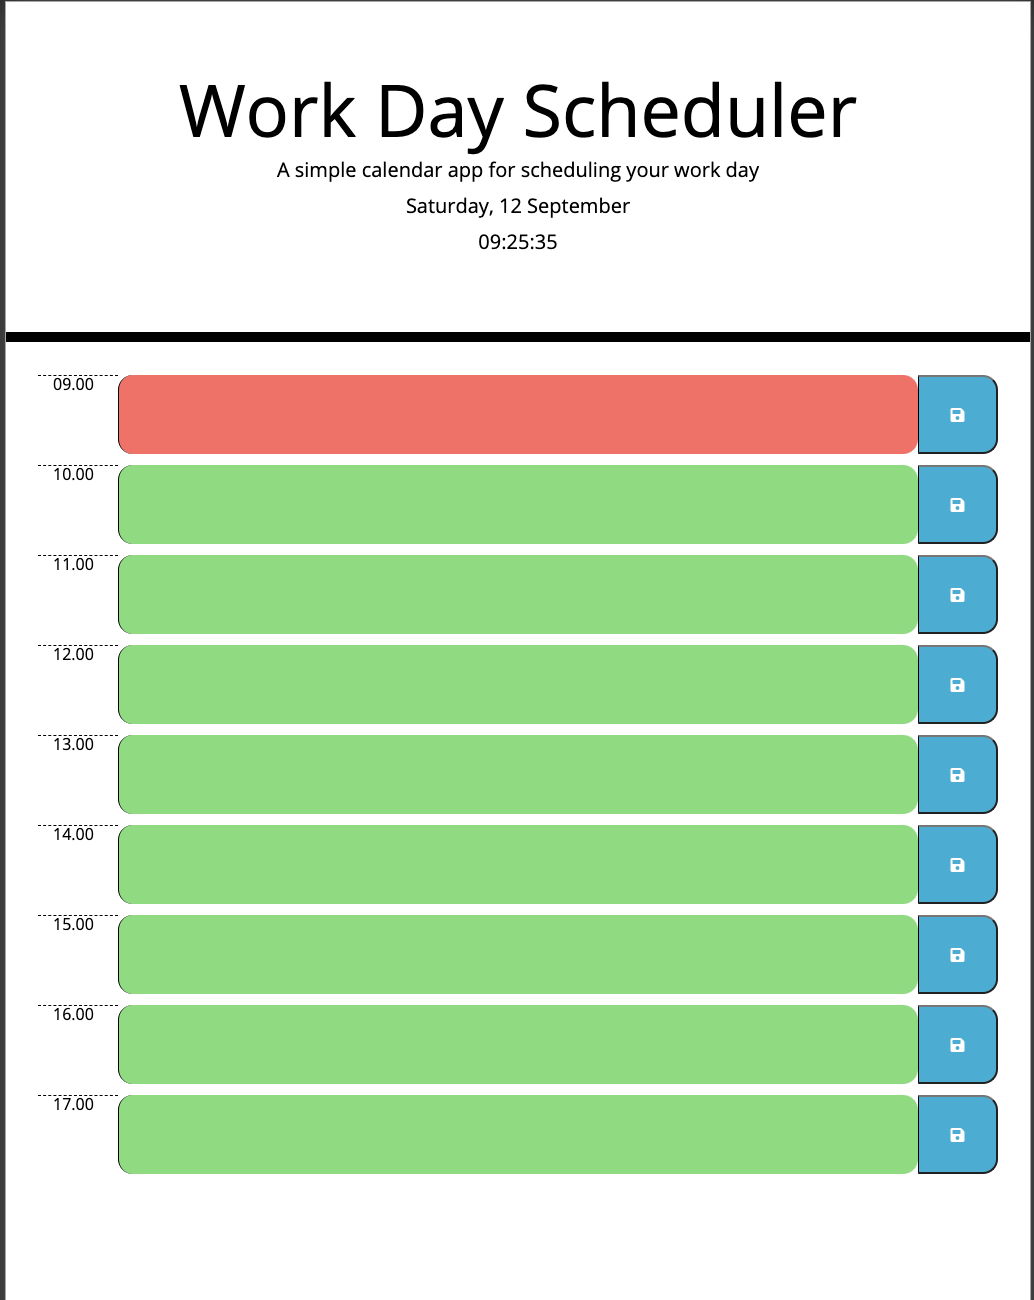
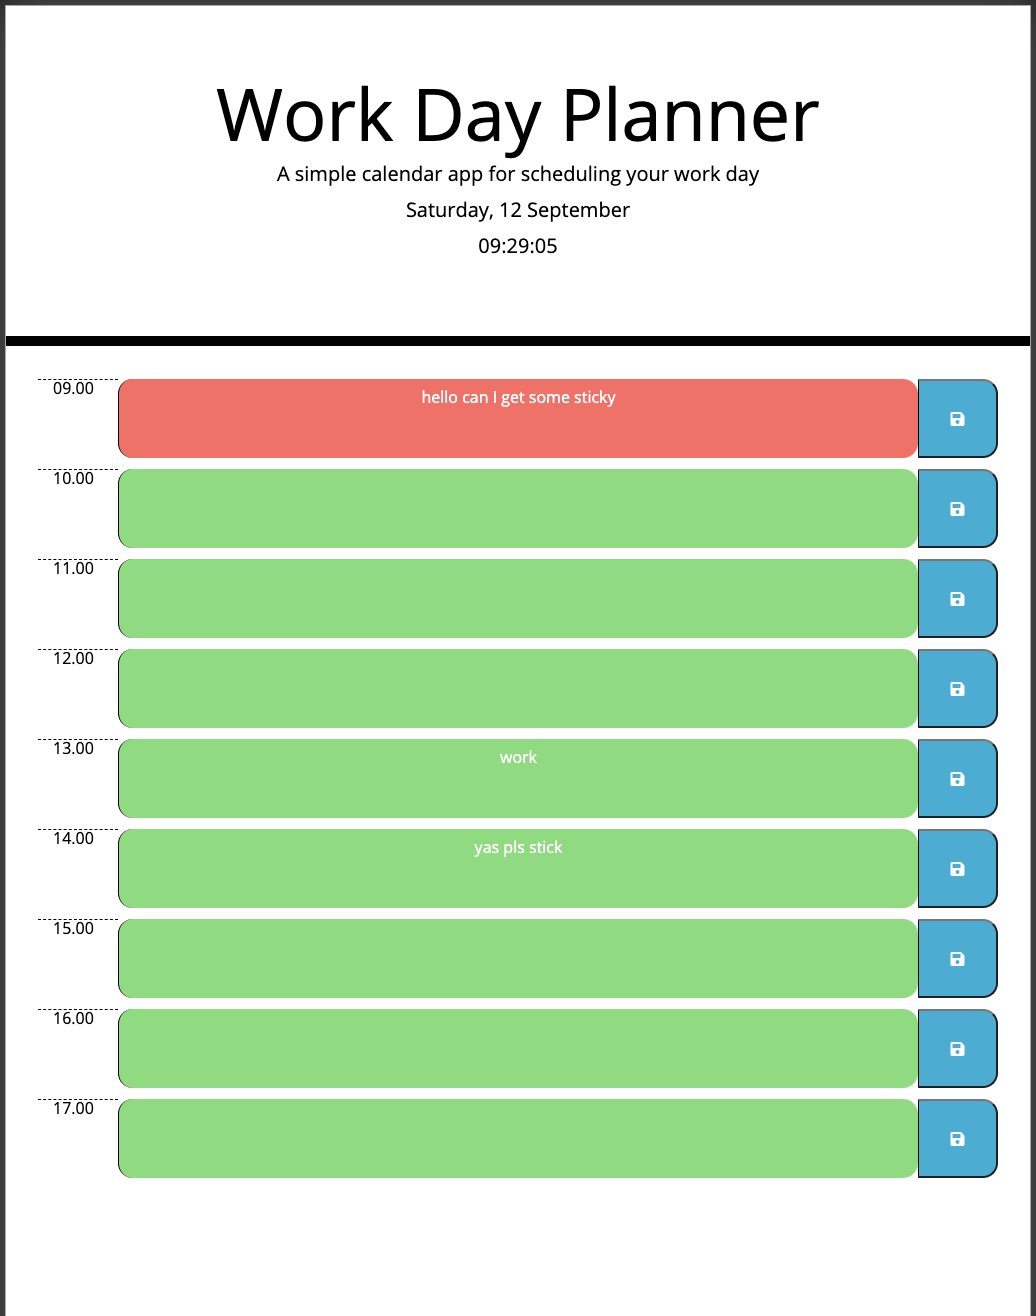
changed 'scheduler' to 'planner'

diff --git a/index.html b/index.html
@@ -19,12 +19,12 @@
       rel="stylesheet"
     />
     <link rel="stylesheet" href="style.css" />
-    <title>Work Day Scheduler</title>
+    <title>Work Day Planner</title>
   </head>
 
   <body>
     <header class="jumbotron">
-      <h1 class="display-3">Work Day Scheduler</h1>
+      <h1 class="display-3">Work Day Planner</h1>
       <p class="lead">A simple calendar app for scheduling your work day</p>
       <p id="currentDay" class="lead"></p>
       <p id="current-time" class="lead">The current time is:</p>
